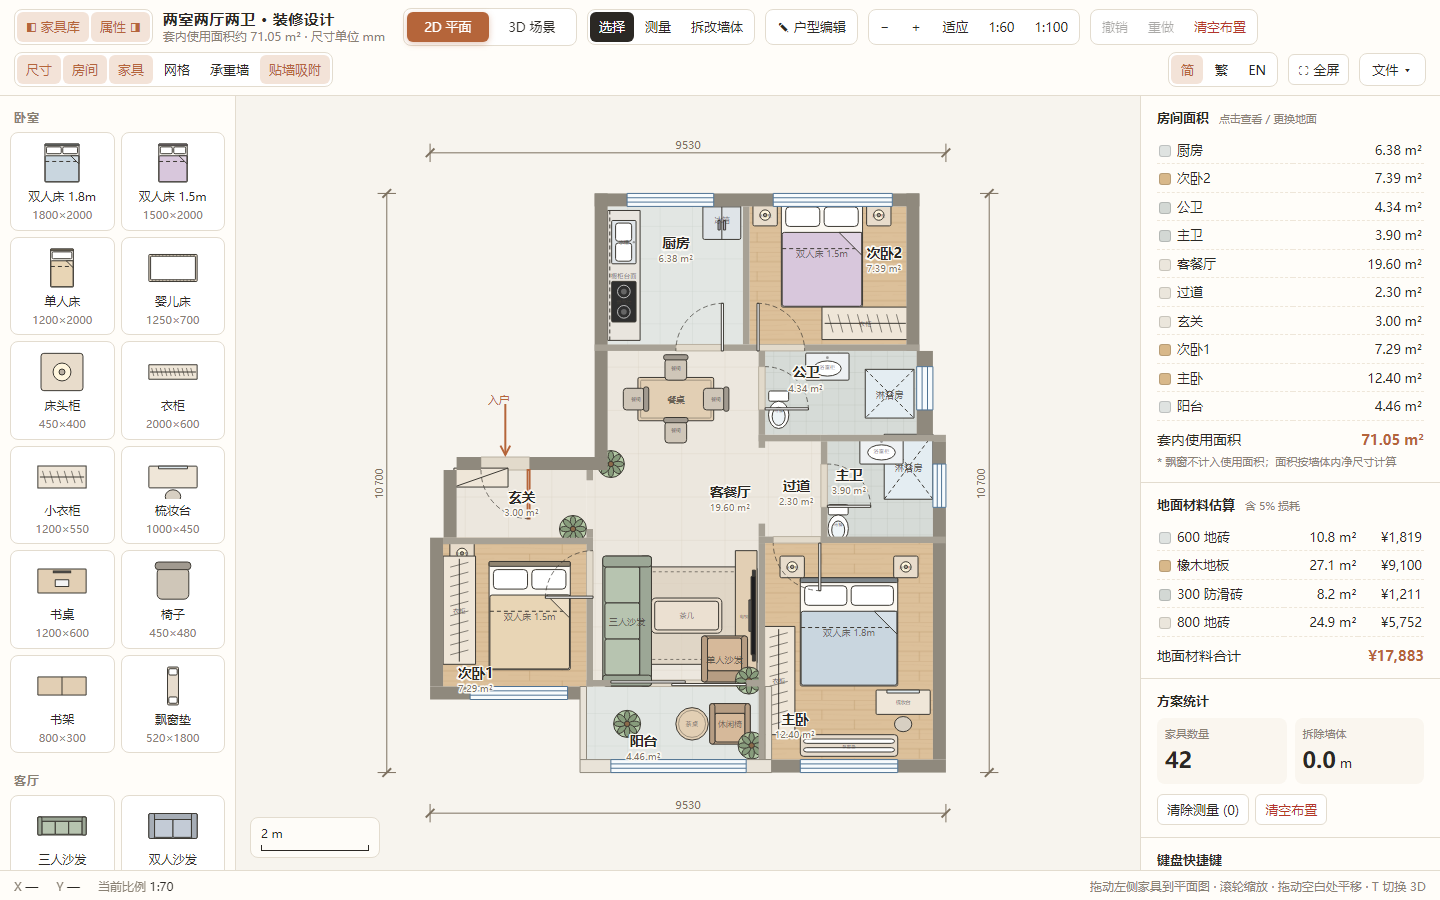
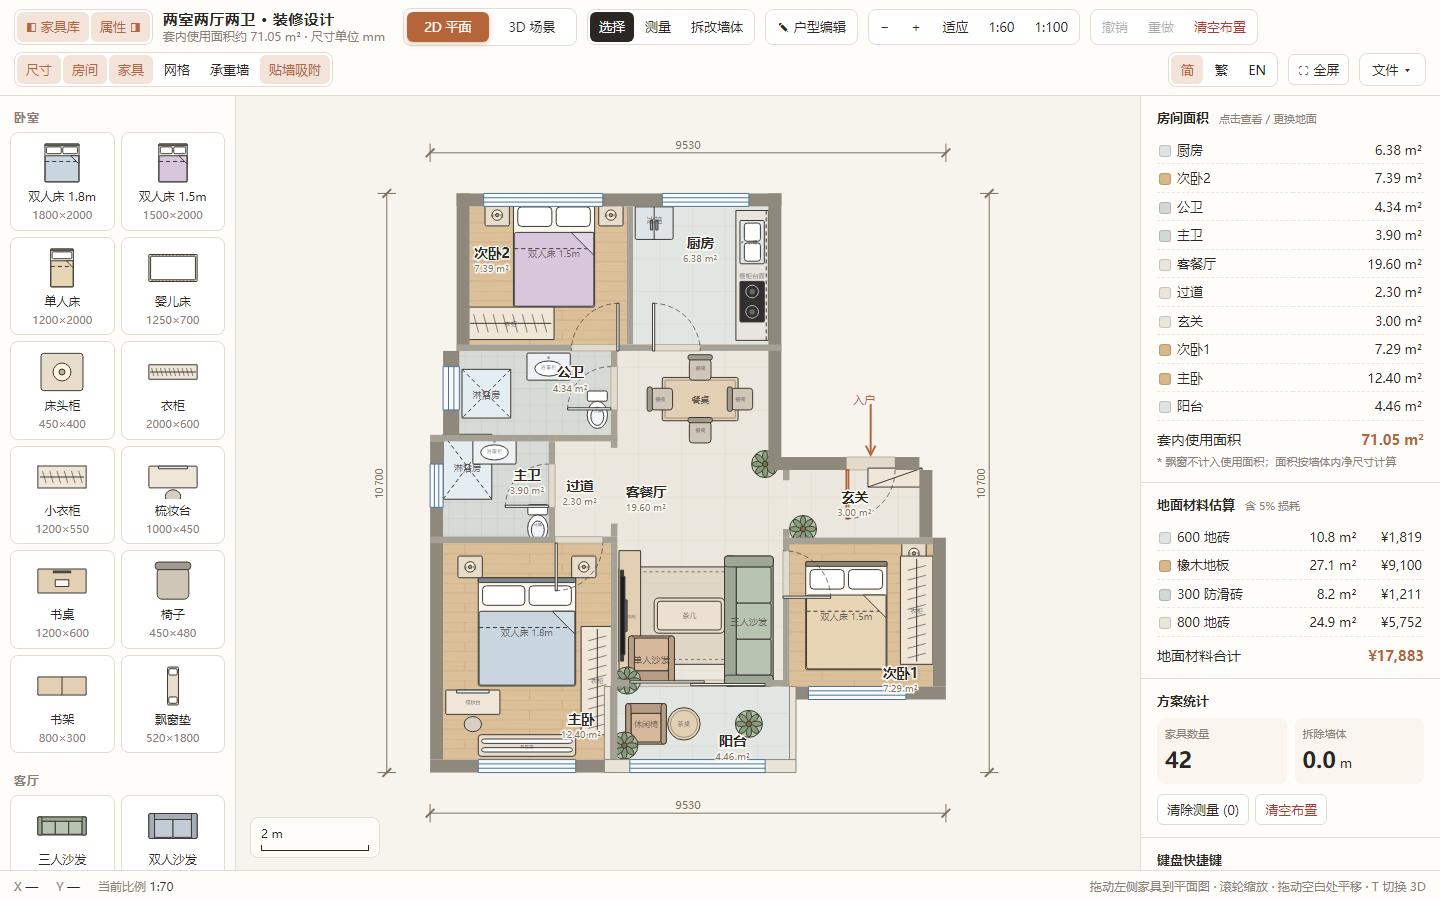
feat: mirror plan to supplied layout, numeric wall editing, back/save

Changed region(s): [[0.2812, 0.2178, 0.6562, 0.8711]]

diff --git a/index.html b/index.html
@@ -402,8 +402,8 @@ main.drawer-panel #fab{opacity:0;visibility:hidden}
       <button class="btn" id="peNew">新建空白</button>
       <button class="btn" id="peImport">导入户型</button>
       <button class="btn" id="peExport">导出户型</button>
-      <button class="btn" id="peCancel">取消</button>
-      <button class="btn primary" id="peApply">应用户型</button>
+      <button class="btn" id="peCancel" title="返回 2D（不保存本次修改）">← 返回</button>
+      <button class="btn primary" id="peApply" title="保存并应用到 2D / 3D">保存</button>
     </div>
   </div>
   <div class="pe-body">
@@ -442,9 +442,11 @@ main.drawer-panel #fab{opacity:0;visibility:hidden}
       <section class="pe-help">
         <h3>操作提示</h3>
         <p>墙体：按住拖动画一条墙，自动取水平 / 垂直，端点会吸附到已有墙角。</p>
+        <p>数字调整：选中墙体后，右侧可直接输入 X / Y / 长度 / 厚度。</p>
         <p>房间：拖出矩形；勾选「自动生成墙」会沿房间外侧加一圈墙。</p>
         <p>门窗：先点「门 / 窗 / 推拉门」，再点已有墙体，会自动在墙上开洞并补门扇 / 窗。</p>
         <p>删除：点「删除」后点对象；删门窗会自动补回墙洞。</p>
+        <p>「← 返回」放弃修改回 2D；「保存」应用并保存。</p>
         <p>滚轮缩放，空白处拖动平移；`F` 适应。</p>
       </section>
     </aside>
@@ -500,6 +502,7 @@ function applyStaticLang(){
  *  按用户提供的两室两厅两卫户型图重建：
  *  厨房 2500×2550、次卧2 2900×2550、公卫 2800×1550、主卫 1950×2000、
  *  玄关 2400×1250、次卧1 2650×2750、客餐厅 3300×6200、主卧 3100×4000、阳台 3300×1350
+ *  坐标按可读方向编写，启动时 mirrorBuiltInPlan() 会水平翻转到图片当前方向
  * ============================================================ */
 // 墙体：[x0,y0,x1,y1,类型]  b=承重(黑) e=外墙 n=可拆非承重 low=矮墙
 const WALLS = [
@@ -657,10 +660,11 @@ function defaultFurniture(){ if (customPlan) return []; return [
 
 function defaultState(){
   const rooms = {}; ROOMS.forEach(r => rooms[r.id] = {name:r.name, mat:r.mat});
-  return {furniture:defaultFurniture(), rooms, demolished:[], measures:[]};
+  const furniture = defaultFurniture().map(f => ({...f, cx:3450-f.cx, rot:(360-f.rot)%360}));
+  return {furniture, rooms, demolished:[], measures:[]};
 }
 
-const STORE = 'huxing-design-v2';
+const STORE = 'huxing-design-v3';
 function load(){
   try { const s = JSON.parse(localStorage.getItem(STORE)); if (s && Array.isArray(s.furniture)) return fixState(s); } catch(e) {}
   return null;
@@ -681,8 +685,20 @@ const PLAN_CENTER = {x:1725, y:5350};       // 3D 场景中心；户型编辑器
 const $ = s => document.querySelector(s);
 const svg = $('#plan');
 
+/* 用户提供的户型图是镜像方向：内置数据按可读方向编写，启动时整体水平翻转，
+   让页面里的房间位置与图片当前方向一致（文字仍保持可读）。 */
+function mirrorBuiltInPlan(){
+  const S = 3450, mx = x => S - x;            // 当前户型 x 范围的左右对称轴
+  const flipX = r => { const a = mx(r[0]), b = mx(r[2]); r[0] = Math.min(a,b); r[2] = Math.max(a,b); };
+  WALLS.forEach(flipX); WINS.forEach(flipX); BAYS.forEach(flipX);
+  SLIDES.forEach(s => flipX(s.rect));
+  DOORS.forEach(d => { flipX(d.rect); d.h[0] = mx(d.h[0]); d.c[0] = -d.c[0]; d.o[0] = -d.o[0]; });
+  ROOMS.forEach(r => { r.poly = r.poly.map(([x,y]) => [mx(x), y]).reverse(); r.at[0] = mx(r.at[0]); });
+}
+mirrorBuiltInPlan();
+
 /* 自定义户型持久化：换页面 / 刷新后仍保留自己画的墙、房间、门窗 */
-const PLAN_STORE = 'huxing-plan-v2';
+const PLAN_STORE = 'huxing-plan-v3';
 function savePlan(){ try { localStorage.setItem(PLAN_STORE, JSON.stringify({WALLS, WINS, DOORS, SLIDES, BAYS, ROOMS})); } catch(e) {} }
 function loadPlan(){
   try {
@@ -1675,7 +1691,7 @@ const planEditor = (() => {
   const empty = () => ({WALLS:[], WINS:[], DOORS:[], SLIDES:[], BAYS:[], ROOMS:[]});
   const svg = q('#peSvg'), el = q('#planEditor');
   let open = false, tool = 'select', draft = empty(), sel = null, viewBox = {x:0, y:0, w:10000, h:8000};
-  let drag = null, pan = null, hover = null, history = [], future = [];
+  let drag = null, pan = null, hover = null, history = [], future = [], baseline = null;
 
   const num = (id, def) => { const v = parseFloat(q(id).value); return Number.isFinite(v) ? v : def; };
   const round = v => Math.round(v/10)*10;
@@ -1962,10 +1978,27 @@ const planEditor = (() => {
     const {kind, i} = sel;
     if (kind === 'wall'){
       const w = draft.WALLS[i]; if (!w){ sel = null; return renderProps(); }
-      const len = Math.round(Math.max(w[2]-w[0], w[3]-w[1])), th = Math.round(Math.min(w[2]-w[0], w[3]-w[1]));
-      box.innerHTML = `<div class="pe-row"><span>长度</span><b>${len} mm</b></div><div class="pe-row"><span>厚度</span><b>${th} mm</b></div>
-        <label style="margin-top:8px">类型 <select id="peSelType"><option value="e"${w[4]==='e'?' selected':''}>外墙</option><option value="n"${w[4]==='n'?' selected':''}>非承重内墙</option><option value="b"${w[4]==='b'?' selected':''}>承重墙</option><option value="low"${w[4]==='low'?' selected':''}>矮墙</option></select></label>
+      const horiz = (w[2]-w[0]) >= (w[3]-w[1]);
+      const len = Math.round(horiz ? w[2]-w[0] : w[3]-w[1]);
+      const th = Math.round(horiz ? w[3]-w[1] : w[2]-w[0]);
+      box.innerHTML = `<label>X 起点 <input type="number" id="peSelX" value="${Math.round(w[0])}" step="10"></label>
+        <label>Y 起点 <input type="number" id="peSelY" value="${Math.round(w[1])}" step="10"></label>
+        <label>长度 mm <input type="number" id="peSelLen" value="${len}" min="100" step="10"></label>
+        <label>厚度 mm <input type="number" id="peSelTh" value="${th}" min="40" step="10"></label>
+        <label>类型 <select id="peSelType"><option value="e"${w[4]==='e'?' selected':''}>外墙</option><option value="n"${w[4]==='n'?' selected':''}>非承重内墙</option><option value="b"${w[4]==='b'?' selected':''}>承重墙</option><option value="low"${w[4]==='low'?' selected':''}>矮墙</option></select></label>
+        <div class="muted" style="font-size:11px;margin:4px 0 6px">数字修改墙的长宽 / 位置；已有门窗不会自动跟着移动。</div>
         <button class="btn" id="peSelDel">删除墙体</button>`;
+      const applyWallEdit = () => {
+        const x = round(num('#peSelX', w[0])), y = round(num('#peSelY', w[1]));
+        const T = Math.max(40, round(num('#peSelTh', th)));
+        const L = Math.max(100, T, round(num('#peSelLen', len)));
+        if (x === w[0] && y === w[1] && L === len && T === th) return;
+        pushHistory();
+        if (horiz){ w[0] = x; w[1] = y; w[2] = x + L; w[3] = y + T; }
+        else { w[0] = x; w[1] = y; w[2] = x + T; w[3] = y + L; }
+        render(); renderProps();
+      };
+      ['peSelX','peSelY','peSelLen','peSelTh'].forEach(id => q('#'+id).onchange = applyWallEdit);
       q('#peSelType').onchange = e => { pushHistory(); w[4] = e.target.value; render(); };
       q('#peSelDel').onclick = deleteSel;
     } else if (kind === 'room'){
@@ -2102,7 +2135,7 @@ const planEditor = (() => {
   function apply(){
     if (!draft.ROOMS.length) return toast(tr('至少画一个房间，3D 才有地面','Draw at least one room for the 3D floor'));
     const keep = q('#peKeepFurn').checked;
-    if (!confirm(`应用后将${keep?'保留':'清空'}现有家具，并重建 2D / 3D 户型。继续？`)) return;
+    if (!confirm(`保存后将${keep?'保留':'清空'}现有家具，并重建 2D / 3D 户型。继续？`)) return;
     draft.ROOMS = draft.ROOMS.filter(r => r.poly.length >= 3 && area(r.poly) > .001);
     if (!draft.ROOMS.length) return toast(tr('房间无效，请重新绘制','No valid room'));
     relabelRooms();
@@ -2118,8 +2151,8 @@ const planEditor = (() => {
     state = {furniture:keep ? state.furniture : [], rooms, demolished:[], measures:[]};
     customPlan = true;
     ui.sel = null; undoStack.length = 0; redoStack.length = 0;
-    savePlan(); save(); close(); fitView(); renderAll(); window.View3D?.setOrigin(PLAN_CENTER.x, PLAN_CENTER.y);
-    toast(tr('户型已应用，可以开始添加家具了','Plan applied — start adding furniture'));
+    savePlan(); save(); close(true); fitView(); renderAll(); window.View3D?.setOrigin(PLAN_CENTER.x, PLAN_CENTER.y);
+    toast(tr('户型已保存并应用，可以开始添加家具了','Plan saved and applied — start adding furniture'));
   }
 
   function keydown(e){
@@ -2146,15 +2179,18 @@ const planEditor = (() => {
     q('#peProps').textContent = '未选中。用「选择」点墙、房间或门窗。';
     el.hidden = false; el.setAttribute('aria-hidden', 'false'); document.body.classList.add('pe-open');
     setTool('select'); fit();
+    baseline = clone(draft);
     open = true;
   }
-  function close(){
+  function close(force = false){
+    if (!force && baseline && JSON.stringify(draft) !== JSON.stringify(baseline) &&
+        !confirm('返回会放弃本次未保存的户型修改，确定返回？')) return;
     open = false; el.hidden = true; el.setAttribute('aria-hidden', 'true');
     document.body.classList.remove('pe-open'); sel = null; svg.innerHTML = '';
   }
 
   q('#planEdit').onclick = openEditor;
-  q('#peCancel').onclick = close;
+  q('#peCancel').onclick = () => close();
   q('#peApply').onclick = apply;
   q('#peNew').onclick = newBlank;
   q('#peMakeRect').onclick = template;

diff --git a/CUSTOMIZE.md b/CUSTOMIZE.md
@@ -14,12 +14,16 @@
    - **房间**：拖出矩形；勾选「自动生成墙」会沿房间外侧加一圈墙
    - **门 / 窗 / 推拉门**：先点工具，再点已有墙体，会自动开洞
    - **选择**：点选对象后，右侧可改名、换地面、改墙类型、翻转门向
+   - **墙体数字调整**：选中墙体后，右侧可直接输入 **X / Y / 长度 / 厚度** 精确修改
    - **删除**：点对象删除；删门窗会自动补回墙洞
 4. 也可以点 **「新建空白」** 从零画，或点 **「生成矩形户型」** 一键生成外墙 + 房间 + 入户门 + 窗
-5. 点 **「应用户型」** —— 2D / 3D / 面积 / 尺寸标注会一起重建
-6. 回到平面图，从左侧家具库拖家具进来
+5. 点 **「保存」** —— 2D / 3D / 面积 / 尺寸标注会一起重建并保存
+6. 点 **「← 返回」** 可放弃本次修改回到 2D 主界面（有未保存修改时会先确认）
 
-编辑器还支持撤销 / 重做、户型 JSON 导入 / 导出。自定义户型保存在浏览器 `localStorage` 的 `huxing-plan-v2`，刷新不丢。
+编辑器还支持撤销 / 重做、户型 JSON 导入 / 导出。自定义户型保存在浏览器 `localStorage` 的 `huxing-plan-v3`，刷新不丢。
+
+> 当前内置户型来自你提供的**镜像方向**户型图：源码按可读方向编写，启动时 `mirrorBuiltInPlan()` 会整体水平翻转成图片方向。
+> 手动改底层数组时，也按可读方向改即可。
 
 > 文件菜单里的「导出 / 导入方案 JSON」只保存家具、房间名/地面、拆墙和测量（`state`），**不包含墙体几何**。  
 > 备份户型请用编辑器里的「导出户型」。
@@ -32,21 +36,22 @@
 
 | 数据 | 位置 | 作用 |
 | --- | --- | --- |
-| `WALLS` | 505–537 行 | 所有墙体（矩形） |
-| `WINS` | 539–550 行 | 窗洞（含窗台 / 窗顶高度） |
-| `DOORS` | 552–560 行 | 平开门 |
-| `SLIDES` | 562–564 行 | 推拉门 |
-| `BAYS` | 566 行 | 飘窗洞口（房间与飘窗之间的墙洞） |
-| `ROOMS` | 568–578 行 | 房间多边形、名称、地面材料、标签位置 |
-| `MATS` | 580–589 行 | 地面材料名称、单价、色块 |
-| `defaultFurniture()` | 627–656 行 | 默认家具（绝对坐标） |
-| `BOUNDS` | 679 行 | 2D 初始视野范围 |
-| `PLAN_STORE` | 685 行 | 自定义户型在 localStorage 的 key |
-| `OX` / `OY` | 2196 行 | 3D 场景把户型中心放到世界原点 |
-| `buildArch()` | 2963 行起 | 用数据生成 3D 墙体 / 门窗 / 地板 |
-| `planEditor` | 1672 行起 | 页面户型编辑器 |
+| `WALLS` | 508–540 行 | 所有墙体（矩形） |
+| `WINS` | 542–553 行 | 窗洞（含窗台 / 窗顶高度） |
+| `DOORS` | 555–563 行 | 平开门 |
+| `SLIDES` | 565–567 行 | 推拉门 |
+| `BAYS` | 569 行 | 飘窗洞口（房间与飘窗之间的墙洞） |
+| `ROOMS` | 571–581 行 | 房间多边形、名称、地面材料、标签位置 |
+| `MATS` | 583–592 行 | 地面材料名称、单价、色块 |
+| `defaultFurniture()` | 630–659 行 | 默认家具（绝对坐标） |
+| `BOUNDS` | 683 行 | 2D 初始视野范围 |
+| `mirrorBuiltInPlan()` | 690 行 | 把内置户型水平翻转到图片方向 |
+| `PLAN_STORE` | 701 行 | 自定义户型在 localStorage 的 key |
+| `OX` / `OY` | 2231 行 | 3D 场景把户型中心放到世界原点 |
+| `buildArch()` | 2998 行起 | 用数据生成 3D 墙体 / 门窗 / 地板 |
+| `planEditor` | 1688 行起 | 页面户型编辑器 |
 
-> 页面编辑器应用户型时会自动重算 `BOUNDS`、`PLAN_CENTER`、尺寸标注和 3D 相机。  
+> 页面编辑器保存户型时会自动重算 `BOUNDS`、`PLAN_CENTER`、尺寸标注和 3D 相机。
 > 只有**手动改底层数组**时，才需要自己调整 `BOUNDS` / `OX` / `OY`。
 
 ---
@@ -184,16 +189,16 @@ let OX = PLAN_CENTER.x, OY = PLAN_CENTER.y;
 
 | key | 内容 |
 | --- | --- |
-| `huxing-plan-v2` | 页面编辑器保存的自定义户型 |
-| `huxing-design-v2` | 家具、房间名/地面、拆墙、测量 |
+| `huxing-plan-v3` | 页面编辑器保存的自定义户型 |
+| `huxing-design-v3` | 家具、房间名/地面、拆墙、测量 |
 
 手动替换内置户型时，建议先把两个 key 都清掉，或改 `STORE` 版本号。  
-如果用页面编辑器，不需要清——「应用户型」会写入新的 `huxing-plan-v2` 和 `huxing-design-v2`。
+如果用页面编辑器，不需要清——「保存」会写入新的 `huxing-plan-v3` 和 `huxing-design-v3`。
 
 ### 4.3 默认家具
 
 `customPlan` 为 `true` 时 `defaultFurniture()` 返回空数组。  
-页面编辑器应用户型后就是这种情况——不会再把原户型的家具摆到新户型里，直接从家具库拖即可。
+页面编辑器保存户型后就是这种情况——不会再把原户型的家具摆到新户型里，直接从家具库拖即可。
 
 ---
 
@@ -264,7 +269,7 @@ const PLAN_CENTER = {x:4000, y:3000};
 
 ### 改了数据，打开还是旧户型？
 
-`huxing-plan-v2` 或 `huxing-design-v2` 里的旧存档覆盖了默认值。清掉对应 key，或改版本号。
+`huxing-plan-v3` 或 `huxing-design-v3` 里的旧存档覆盖了默认值。清掉对应 key，或改版本号。
 
 ### 3D 里门洞被墙堵住？
 

diff --git a/README.md b/README.md
@@ -8,7 +8,8 @@
 
 **2D 平面布置**
 - 顶栏「✎ 户型编辑」：画墙、拖出房间、点墙开门窗，新建空白户型或一键生成矩形模板
-- 应用户型后自动重建 2D / 3D、面积统计和尺寸标注，户型保存在浏览器本地，刷新不丢
+- 选中墙体后可输入 X / Y / 长度 / 厚度精确调整；编辑器提供「← 返回」和「保存」
+- 保存户型后自动重建 2D / 3D、面积统计和尺寸标注，户型保存在浏览器本地，刷新不丢
 - 支持户型 JSON 导入 / 导出，方便备份和换电脑
 - 支持 1:60 / 1:100 比例显示，尺寸单位 mm
 - 从左侧家具库拖入 60 余种家具家电（卧室、客厅、餐厨、卫浴、家电、书房休闲）
@@ -73,7 +74,9 @@ python3 -m http.server 8000
 
 ## 自定义户型
 
-最直接的方式：点顶栏的 **「✎ 户型编辑」**，用「墙体 / 房间 / 门 / 窗 / 推拉门」工具画自己的户型，支持新建空白、矩形模板、撤销重做、导入 / 导出户型 JSON。点「应用户型」后会重建 2D / 3D、面积和尺寸标注，之后就可以直接拖家具进来。自定义户型保存在浏览器 `localStorage`，刷新不丢。
+最直接的方式：点顶栏的 **「✎ 户型编辑」**，用「墙体 / 房间 / 门 / 窗 / 推拉门」工具画自己的户型，支持新建空白、矩形模板、撤销重做、导入 / 导出户型 JSON。选中墙体后可以直接输入 X / Y / 长度 / 厚度；改完点「保存」会重建 2D / 3D、面积和尺寸标注，点「← 返回」放弃修改回到主界面。之后就可以直接拖家具进来。自定义户型保存在浏览器 `localStorage`，刷新不丢。
+
+> 当前内置户型按你提供的镜像户型图方向布置。
 
 底层数据仍然写在 `index.html` 里，适合批量 / 精确修改：
 
@@ -88,6 +91,8 @@ python3 -m http.server 8000
 ## 户型编辑器截图
 
 ![户型编辑器](docs/plan-editor.png)
+
+![墙体数字调整](docs/plan-wall-edit.png)
 
 ![应用后 2D 平面](docs/plan-result-2d.png)
 
